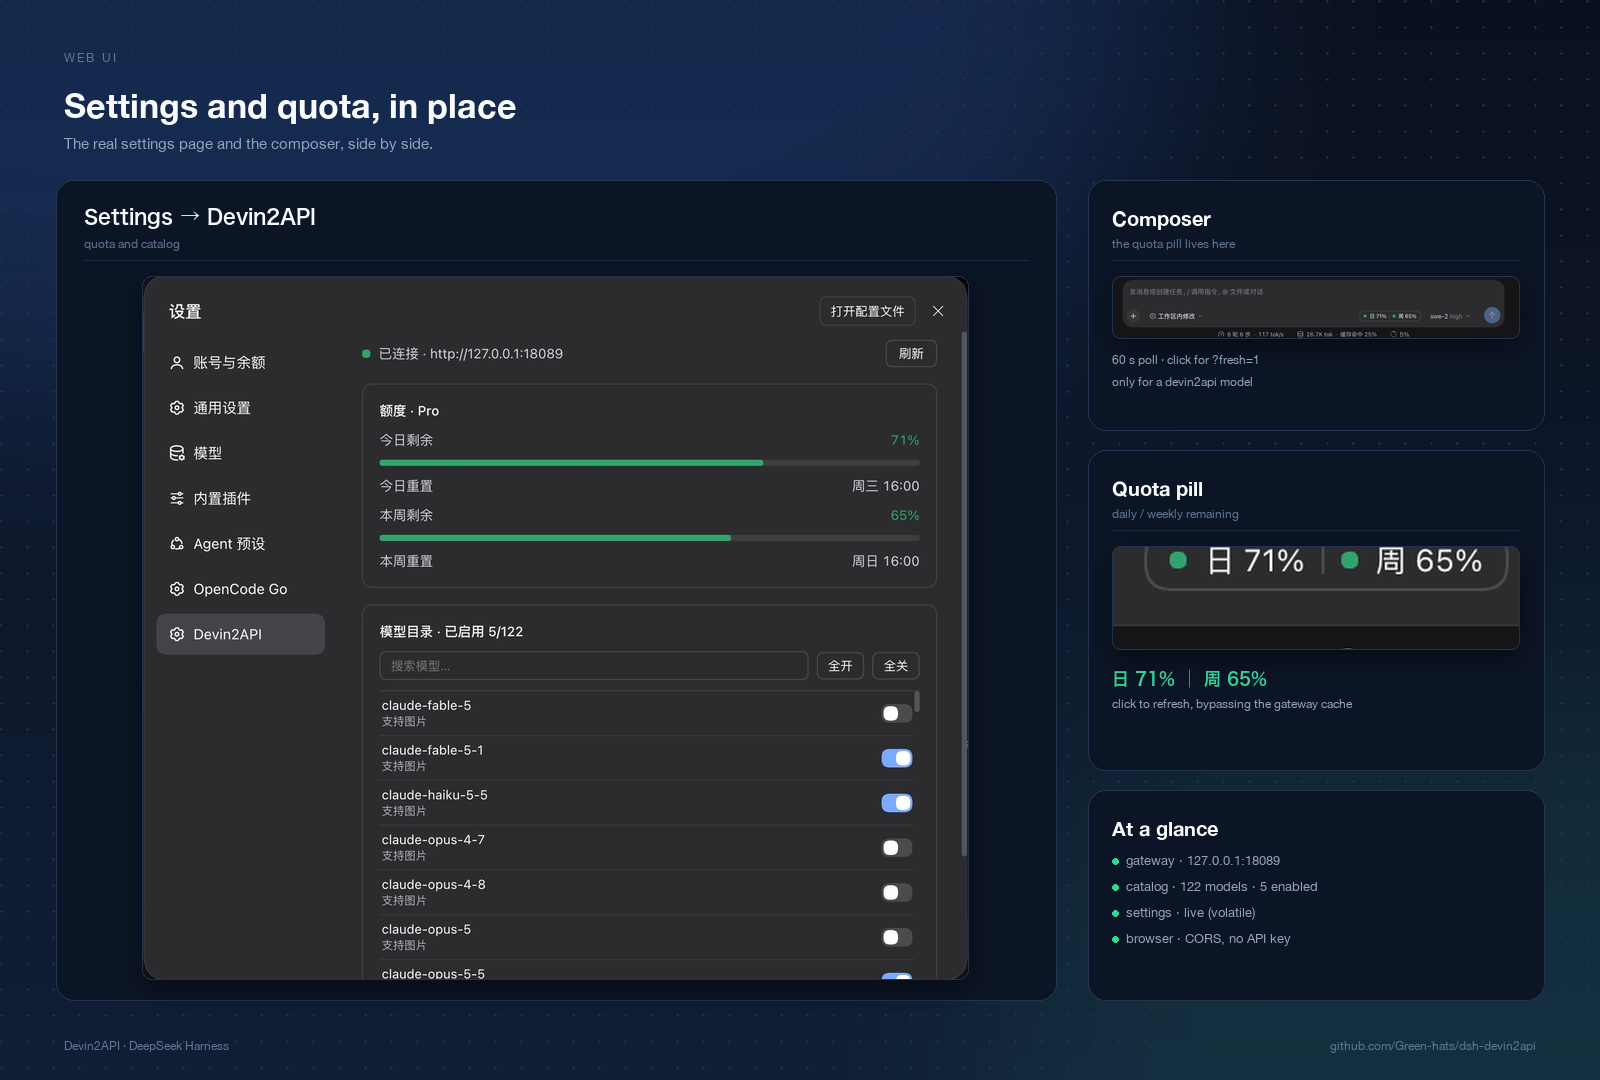
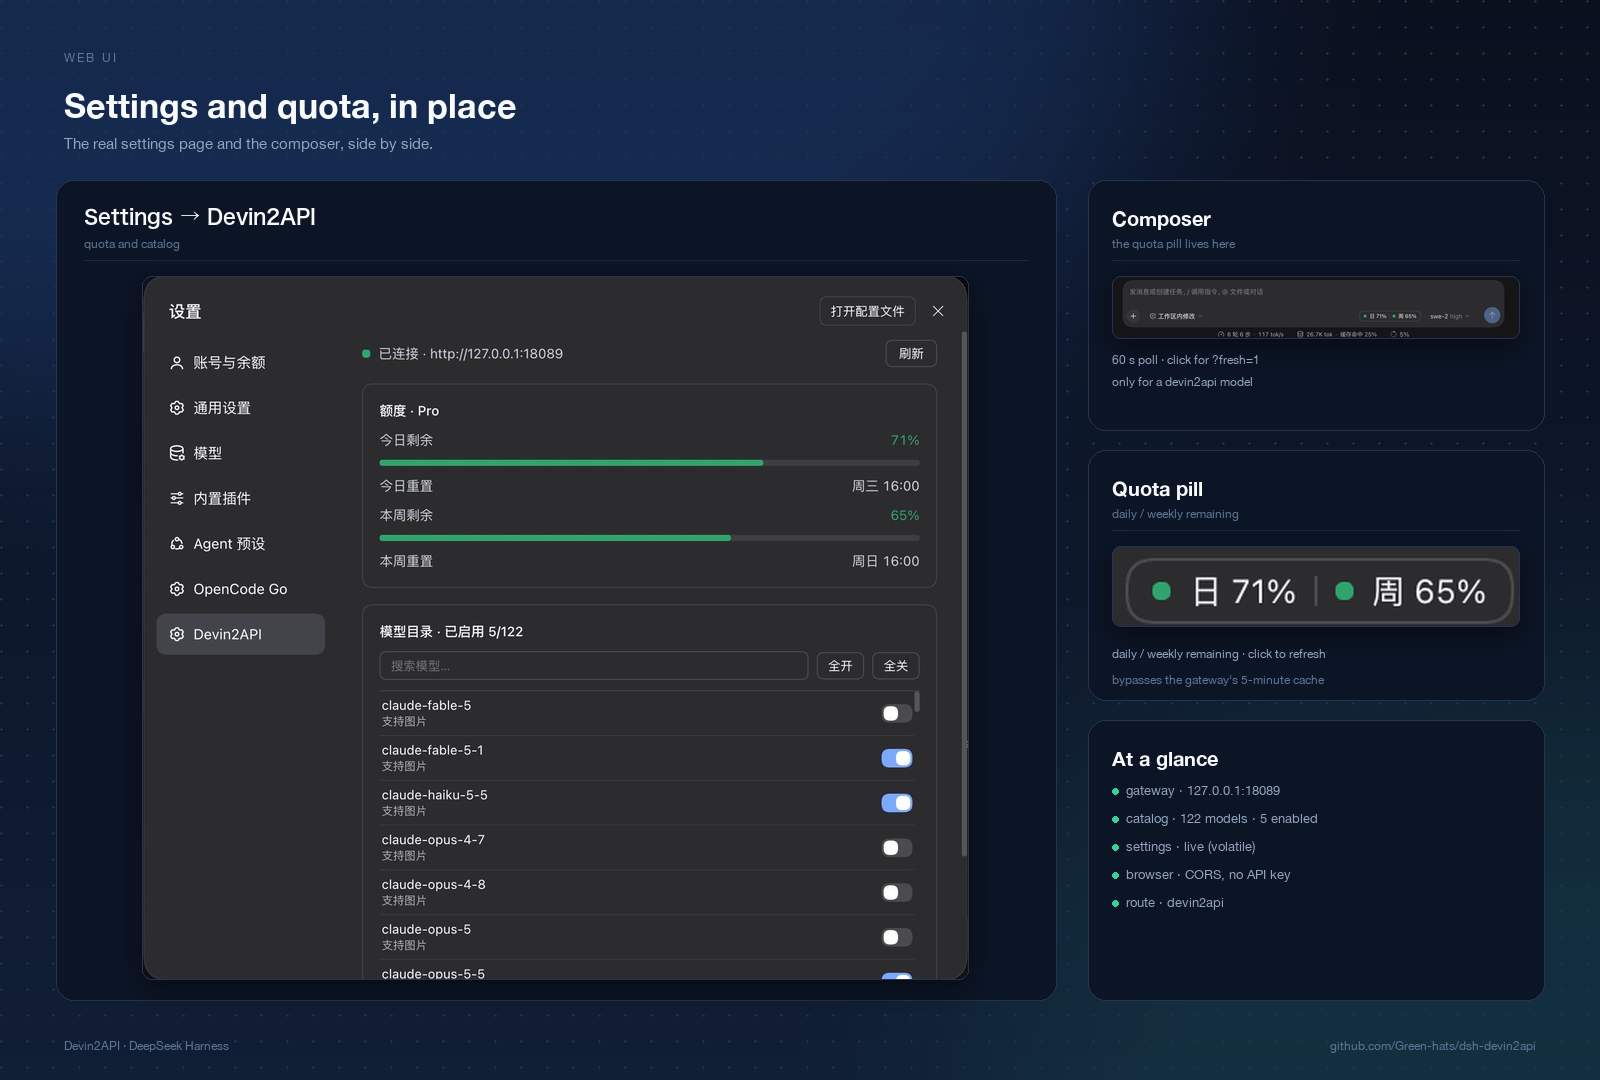
docs: tighten the quota pill close-up
Crop the pill to its actual bounds (the previous crop cut the text and
included the composer stats row), drop the duplicated percentage caption
and use the freed space for the cache note. Rebalance the right column.

Changed region(s): [[0.6875, 0.4889, 0.9375, 0.6722], [0.6875, 0.7028, 0.8125, 0.8861]]

diff --git a/scripts/make-images.py b/scripts/make-images.py
@@ -361,36 +361,42 @@ def ui_showcase(lang: str) -> None:
     )
 
     # pill close-up
-    _card(draw, (1088, 450, 1544, 770))
+    _card(draw, (1088, 450, 1544, 700))
     draw.text((1112, 476), "额度胶囊" if zh else "Quota pill", font=_ui_font(zh, 20, True), fill=UI_TEXT)
     draw.text((1112, 506), "日 / 周剩余额度" if zh else "daily / weekly remaining", font=_ui_font(zh, 12), fill=UI_DIM)
     draw.line((1112, 530, 1520, 530), fill=(27, 41, 64, 255))
     source = Image.open(DOCS / "composer.png")
-    pill = source.crop((1020, 158, 1310, 232))
+    pill = source.crop((1034, 138, 1306, 192))
     pill = pill.resize((408, round(408 * pill.height / pill.width)), Image.LANCZOS)
     _paste_rounded(canvas, pill, (1112, 546), 8)
-    draw.text((1112, 670), "日 71% │ 周 65%", font=_ui_font(True, 17, True), fill=UI_GREEN)
     draw.text(
-        (1112, 696),
-        "点击刷新，跳过网关 5 分钟缓存" if zh else "click to refresh, bypassing the gateway cache",
+        (1112, 646),
+        "日 / 周剩余额度 · 点击刷新" if zh else "daily / weekly remaining · click to refresh",
         font=_ui_font(zh, 12),
         fill=UI_MUTED,
     )
+    draw.text(
+        (1112, 672),
+        "跳过网关 5 分钟缓存" if zh else "bypasses the gateway's 5-minute cache",
+        font=_ui_font(zh, 12),
+        fill=UI_DIM,
+    )
 
     # status summary
-    _card(draw, (1088, 790, 1544, 1000))
-    draw.text((1112, 816), "一眼看" if zh else "At a glance", font=_ui_font(zh, 20, True), fill=UI_TEXT)
+    _card(draw, (1088, 720, 1544, 1000))
+    draw.text((1112, 746), "一眼看" if zh else "At a glance", font=_ui_font(zh, 20, True), fill=UI_TEXT)
     rows = [
         ("网关 · 127.0.0.1:18089" if zh else "gateway · 127.0.0.1:18089"),
         ("目录 · 122 个模型 · 已启用 5" if zh else "catalog · 122 models · 5 enabled"),
         ("设置 · 即时生效（volatile）" if zh else "settings · live (volatile)"),
         ("浏览器 · 只读端点不带密钥" if zh else "browser · CORS, no API key"),
+        ("路由 · devin2api" if zh else "route · devin2api"),
     ]
-    y = 852
+    y = 782
     for row in rows:
         draw.ellipse((1112, y + 6, 1118, y + 12), fill=UI_GREEN)
         draw.text((1126, y), row, font=_ui_font(zh, 13), fill=UI_MUTED)
-        y += 26
+        y += 28
 
     draw.text((64, 1038), "Devin2API · DeepSeek Harness", font=_ui_font(zh, 12), fill=UI_DIM)
     draw.text(
